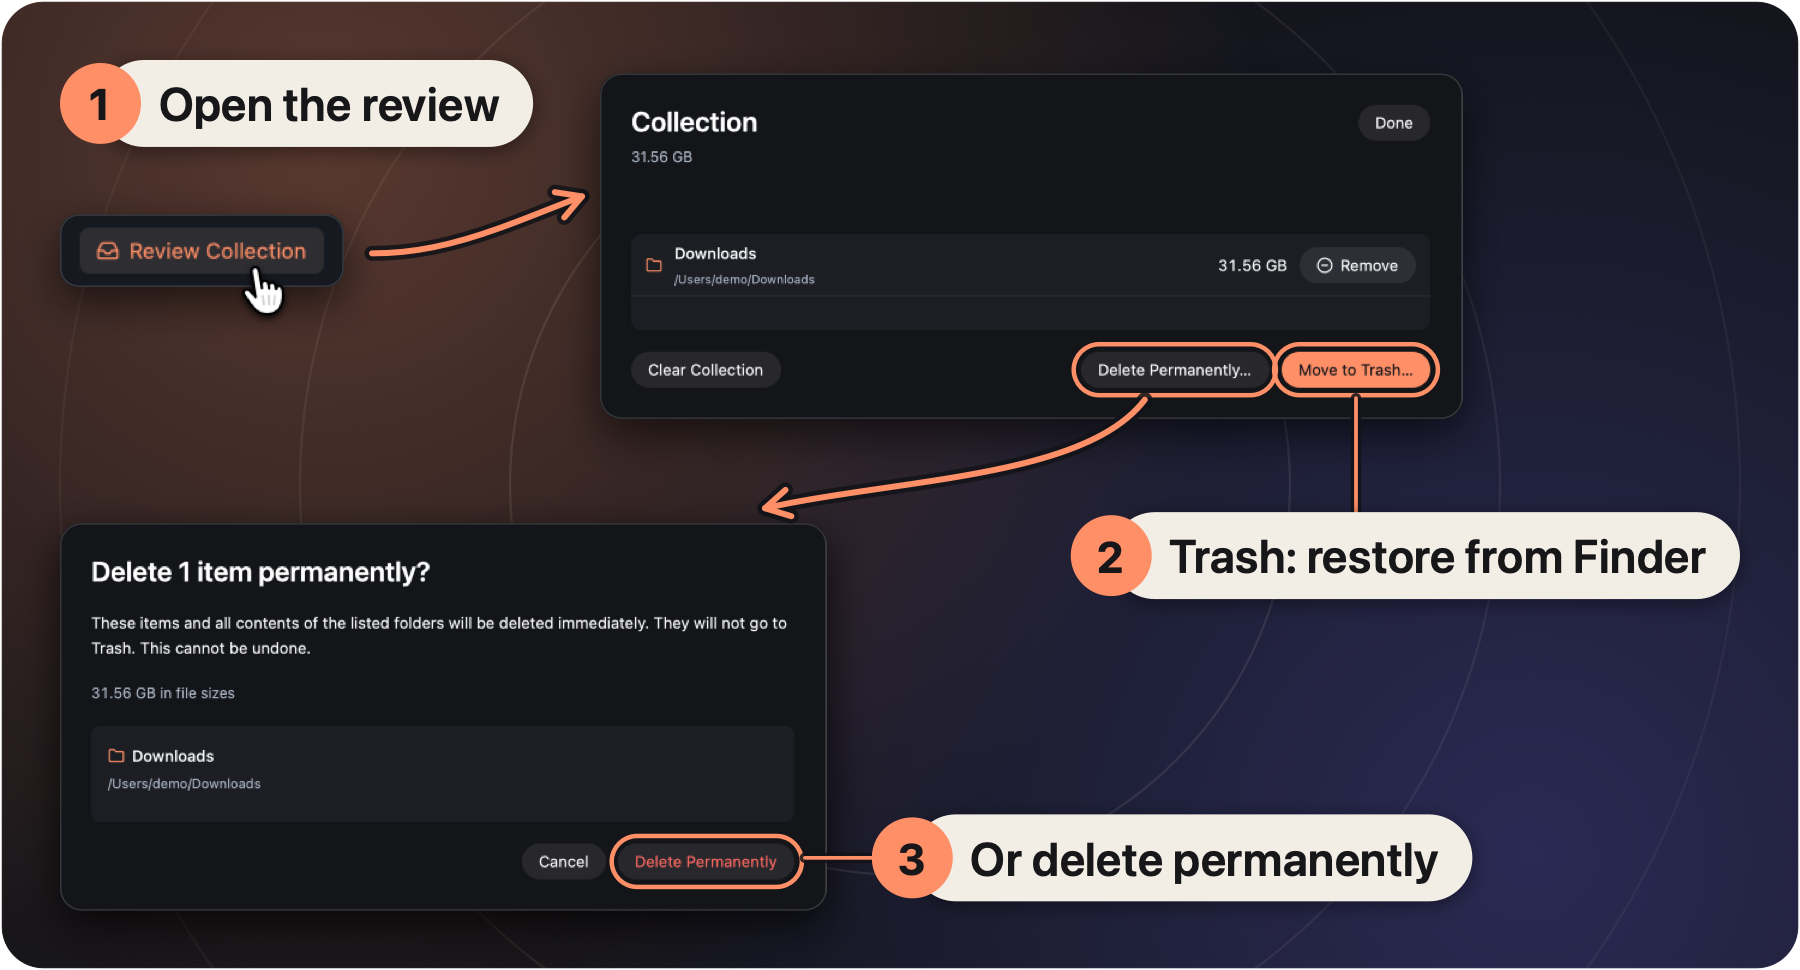
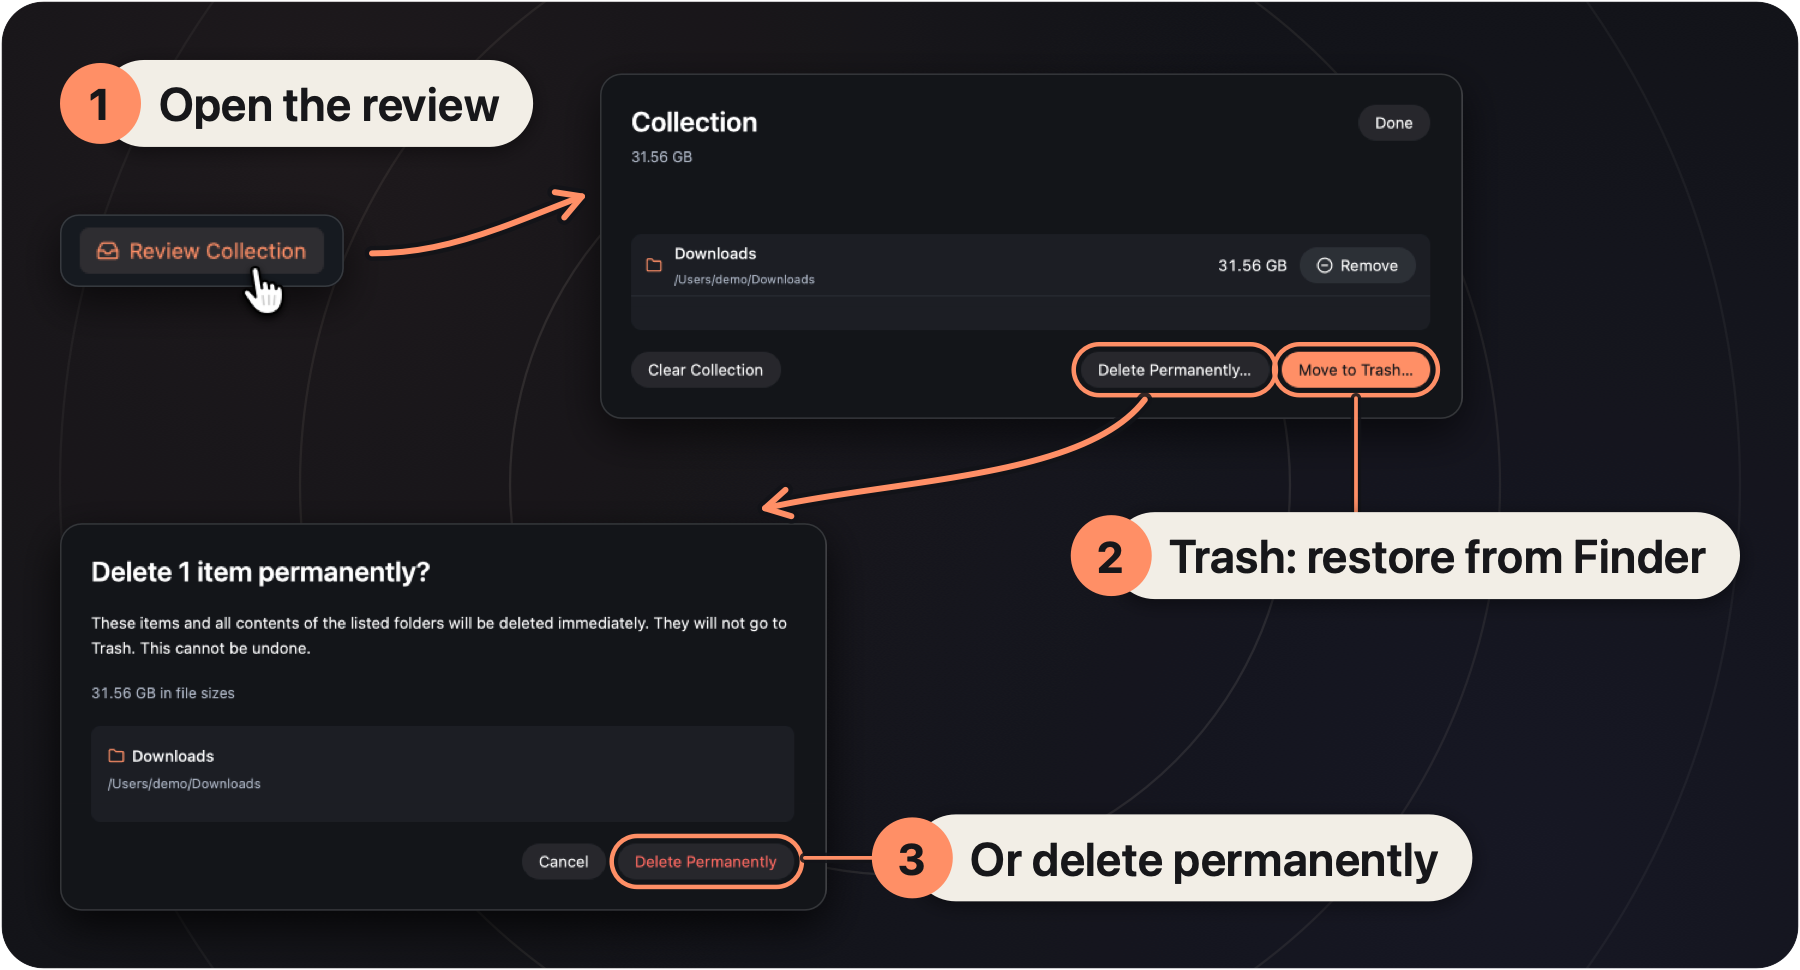
docs: tone dark spotlight glows down to match the light panel
Coral and indigo glows drop from 30 %/26 % to 5 % opacity, matching the light gradient's tint strength (about 0.03 OKLab ΔE from neutral). Re-rendered the dark hero and step cards.

diff --git a/scripts/marketing/Cards.swift b/scripts/marketing/Cards.swift
@@ -218,9 +218,9 @@ func spotlight(theme: Theme) {
         srgb(0x121318).setFill()
         shape.fill()
         let coralCenter = NSPoint(x: card.width * 0.18, y: card.height * 0.85), indigoCenter = NSPoint(x: card.width * 0.85, y: card.height * 0.12)
-        NSGradient(colors: [srgb(0xFF8F66, 0.30), srgb(0xFF8F66, 0)])!
+        NSGradient(colors: [srgb(0xFF8F66, 0.05), srgb(0xFF8F66, 0)])!
             .draw(fromCenter: coralCenter, radius: 0, toCenter: coralCenter, radius: 620, options: [])
-        NSGradient(colors: [srgb(0x6E6BFF, 0.26), srgb(0x6E6BFF, 0)])!
+        NSGradient(colors: [srgb(0x6E6BFF, 0.05), srgb(0x6E6BFF, 0)])!
             .draw(fromCenter: indigoCenter, radius: 0, toCenter: indigoCenter, radius: 640, options: [])
     } else {
         NSGradient(colors: [srgb(0xFFEDE4), srgb(0xF6F1FA), srgb(0xE6ECFF)], atLocations: [0, 0.5, 1], colorSpace: .sRGB)!

diff --git a/scripts/marketing/Hero.swift b/scripts/marketing/Hero.swift
@@ -43,9 +43,9 @@ func spotlight(dark: Bool) {
         shape.fill()
         let coralCenter = NSPoint(x: canvas.width * 0.18, y: canvas.height * 0.85)
         let indigoCenter = NSPoint(x: canvas.width * 0.85, y: canvas.height * 0.12)
-        NSGradient(colors: [srgb(0xFF8F66, 0.30), srgb(0xFF8F66, 0)])!
+        NSGradient(colors: [srgb(0xFF8F66, 0.05), srgb(0xFF8F66, 0)])!
             .draw(fromCenter: coralCenter, radius: 0, toCenter: coralCenter, radius: 820, options: [])
-        NSGradient(colors: [srgb(0x6E6BFF, 0.26), srgb(0x6E6BFF, 0)])!
+        NSGradient(colors: [srgb(0x6E6BFF, 0.05), srgb(0x6E6BFF, 0)])!
             .draw(fromCenter: indigoCenter, radius: 0, toCenter: indigoCenter, radius: 840, options: [])
     } else {
         NSGradient(colors: [srgb(0xFFEDE4), srgb(0xF6F1FA), srgb(0xE6ECFF)], atLocations: [0, 0.5, 1], colorSpace: .sRGB)!
